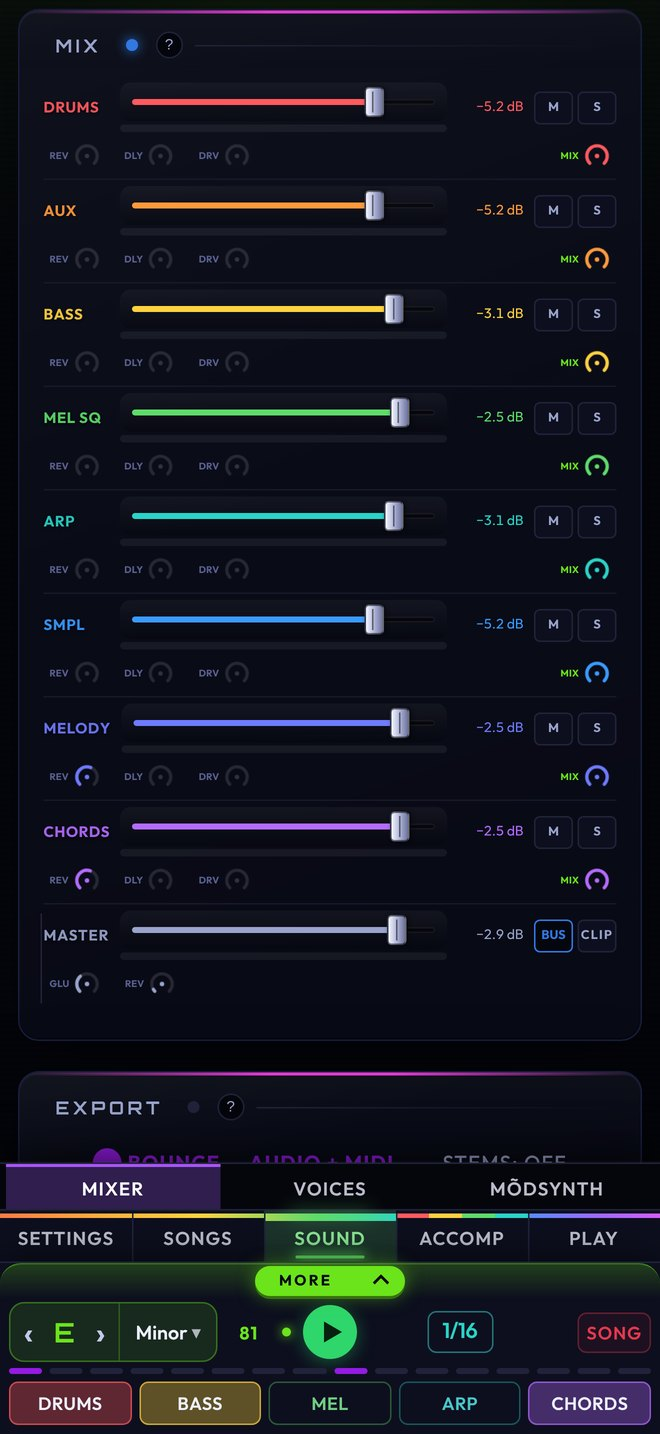
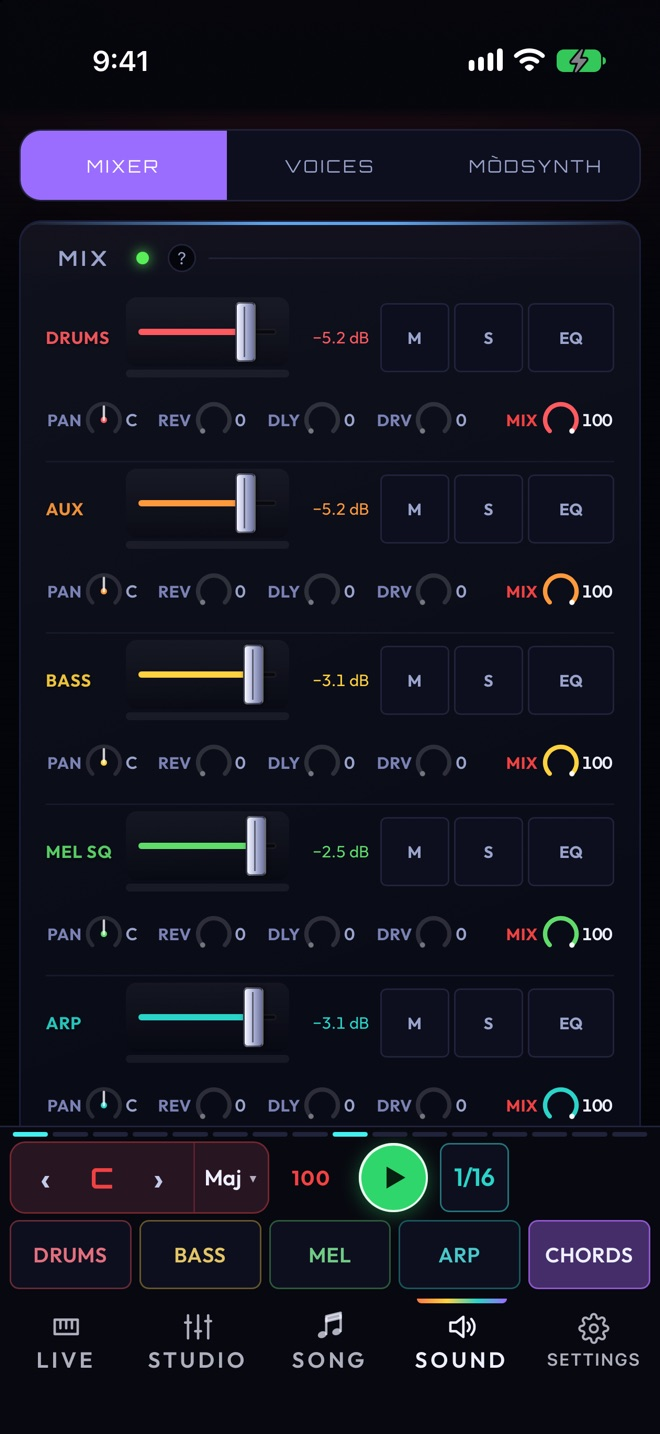
Replace the screenshots with the current app (Live, Studio, Song, Sound)
The old five showed the Play and Accomp tabs, which the app no longer has. These are the 6.9.2 iPhone shots from the Simulator (status bar at 9:41, every pack unlocked), 660x1434 like the ones they replace. Play, Accomp and Songs are removed; Live, Studio and Song are added; splash and Sound are retaken.

diff --git a/index.html b/index.html
@@ -48,9 +48,9 @@
 
   <div class="shots" aria-label="Screenshots">
     <figure><div class="phone"><img src="assets/shots/splash.jpg" width="660" height="1434" alt="The mõdRïff splash screen: the wordmark over a spectrum of coloured level bars"></div><figcaption>Every part, always in key</figcaption></figure>
-    <figure><div class="phone"><img src="assets/shots/play.jpg" width="660" height="1434" alt="The Play tab: coloured chord pads, a melody keyboard and a sampler" loading="lazy"></div><figcaption>Play</figcaption></figure>
-    <figure><div class="phone"><img src="assets/shots/accomp.jpg" width="660" height="1434" alt="The Accomp tab: a drum pattern on the step sequencer" loading="lazy"></div><figcaption>Drums and accompaniment</figcaption></figure>
-    <figure><div class="phone"><img src="assets/shots/songs.jpg" width="660" height="1434" alt="The Songs tab: a song with a chord progression" loading="lazy"></div><figcaption>Song builder</figcaption></figure>
+    <figure><div class="phone"><img src="assets/shots/live.jpg" width="660" height="1434" alt="The Live tab: coloured chord pads in the key, a melody keyboard and the style rows" loading="lazy"></div><figcaption>Play live</figcaption></figure>
+    <figure><div class="phone"><img src="assets/shots/studio.jpg" width="660" height="1434" alt="The Studio tab: every chord in the key, borrowed and secondary-dominant chords, and a rhythm builder" loading="lazy"></div><figcaption>Studio</figcaption></figure>
+    <figure><div class="phone"><img src="assets/shots/song.jpg" width="660" height="1434" alt="The Song tab: a four-chord progression laid out on a timeline" loading="lazy"></div><figcaption>Song builder</figcaption></figure>
     <figure><div class="phone"><img src="assets/shots/sound.jpg" width="660" height="1434" alt="The Sound tab: a mixer with a channel for every part" loading="lazy"></div><figcaption>Mixer</figcaption></figure>
   </div>
 
